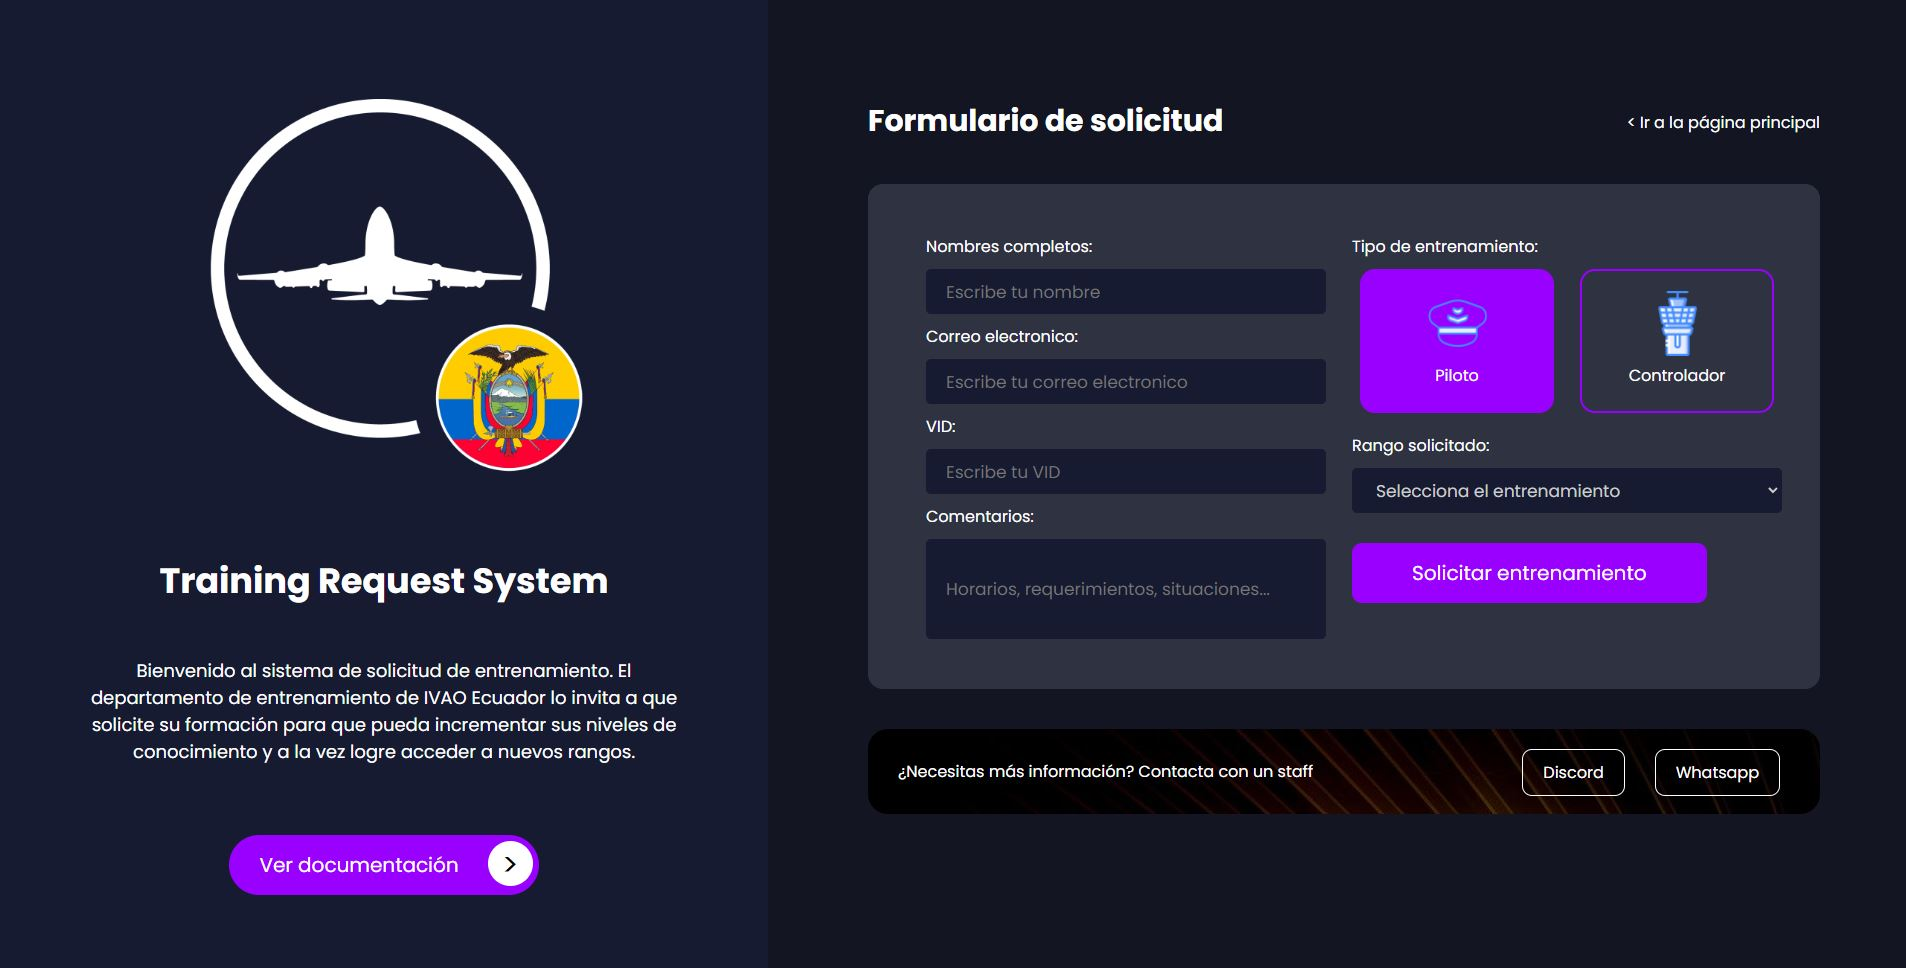
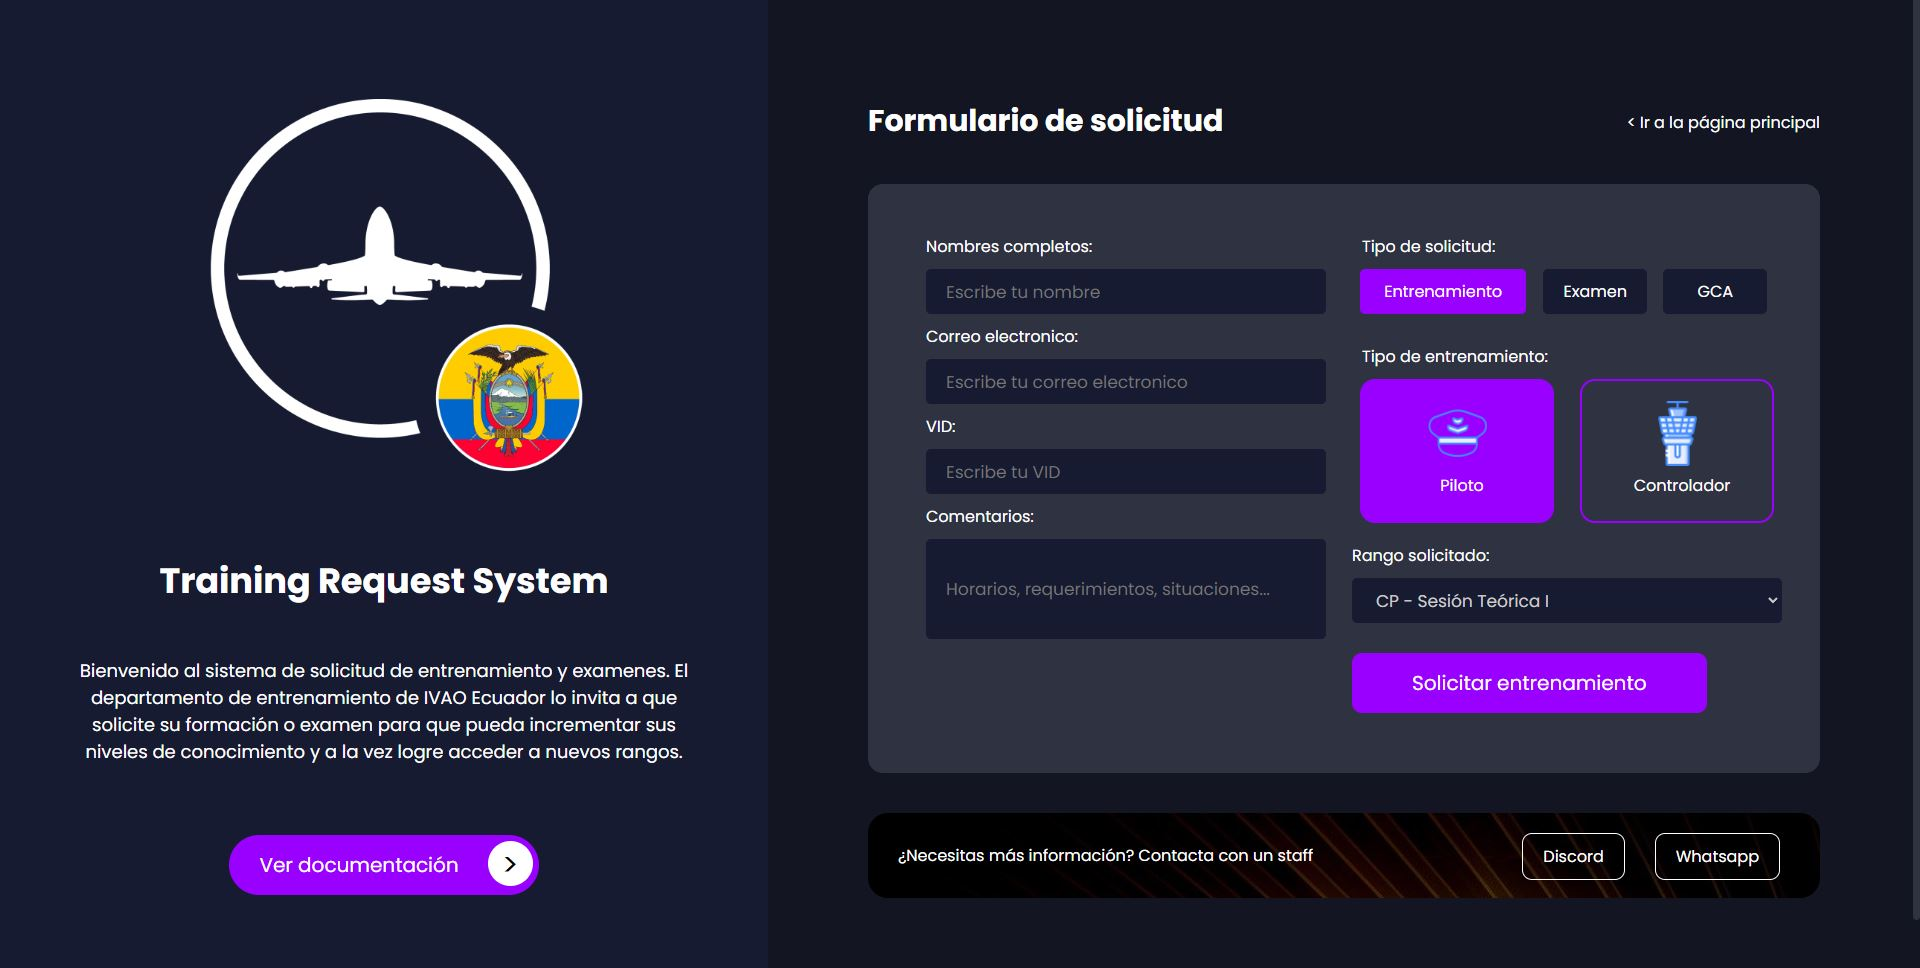
[Funcionalidades y estilo] Nuevo sistema para GCA

diff --git a/js/script.js b/js/script.js
@@ -29,6 +29,7 @@ let loadingPage = setInterval(() => {
 // Select type of request
 const trainingSelect = document.getElementById("training-type-label");
 const examSelect = document.getElementById("exam-type-label");
+const gcaSelect = document.getElementById("gca-type-label");
 const typeTitle = document.getElementById("type-title");
 
 // Main buttons
@@ -48,6 +49,7 @@ const submitBoton = document.getElementById("submit-boton");
 // Inputs
 const botonTraining = document.getElementById("training-type");
 const botonExam = document.getElementById("exam-type");
+const botonGca = document.getElementById("gca-type");
 
 // Input
 const botonSelectOne = document.getElementById("pilot_img");
@@ -59,6 +61,8 @@ const botonSelectTwo = document.getElementById("control_img");
 trainingSelect.addEventListener("click", () => {
     trainingSelect.classList.add("active");
     examSelect.classList.remove("active");
+    gcaSelect.classList.remove("active");
+    botonOne.classList.remove("disabled");
 
     typeTitle.innerHTML = "Tipo de entrenamiento:";
     submitBoton.innerHTML = "Solicitar entrenamiento";
@@ -82,6 +86,8 @@ trainingSelect.addEventListener("click", () => {
 examSelect.addEventListener("click", () => {
     examSelect.classList.add("active");
     trainingSelect.classList.remove("active");
+    gcaSelect.classList.remove("active");
+    botonOne.classList.remove("disabled");
 
     typeTitle.innerHTML = "Tipo de examen:";
     submitBoton.innerHTML = "Solicitar examen";
@@ -103,27 +109,54 @@ examSelect.addEventListener("click", () => {
 },false)
 
 
+gcaSelect.addEventListener("click", () => {
+    gcaSelect.classList.add("active");
+    trainingSelect.classList.remove("active");
+    examSelect.classList.remove("active");
+
+    typeTitle.innerHTML = "Tipo de GCA:";
+    submitBoton.innerHTML = "Solicitar GCA / Request GCA";
+
+    botonOne.classList.add("disabled");
+    botonOne.style.backgroundColor  = "transparent";
+    botonTwo.style.backgroundColor = "#9A00FF";
+    botonSelectTwo.checked = true;
+
+    submitSection.style.display = "block";
+
+    listControl.style.display = "none";
+    listPilot.style.display = "none";
+    listExamAtc.style.display = "block";
+    listExamPilot.style.display = "none";
+    
+
+},false)
+
+
 // Buttons
 
 botonOne.addEventListener("change", () => {
 
-    submitSection.style.display = "block";
+    if(botonGca.checked != true){
 
-    botonTwo.style.backgroundColor  = "transparent";
-    botonOne.style.backgroundColor = "#9A00FF";
+        submitSection.style.display = "block";
+        
+        botonTwo.style.backgroundColor  = "transparent";
+        botonOne.style.backgroundColor = "#9A00FF";
 
-    if(botonTraining.checked){
-        listControl.style.display = "none";
-        listPilot.style.display = "block";
-        listExamAtc.style.display = "none";
-        listExamPilot.style.display = "none";
-    }
-
-    if(botonExam.checked){
-        listControl.style.display = "none";
-        listPilot.style.display = "none";
-        listExamAtc.style.display = "none";
-        listExamPilot.style.display = "block";
+        if(botonTraining.checked){
+            listControl.style.display = "none";
+            listPilot.style.display = "block";
+            listExamAtc.style.display = "none";
+            listExamPilot.style.display = "none";
+        }
+    
+        if(botonExam.checked){
+            listControl.style.display = "none";
+            listPilot.style.display = "none";
+            listExamAtc.style.display = "none";
+            listExamPilot.style.display = "block";
+        }
     }
 
 },false)
@@ -145,12 +178,14 @@ botonTwo.addEventListener("change", () => {
         listExamPilot.style.display = "none";
     }
 
-    if(botonExam.checked){
+    if(botonExam.checked || botonGca.checked){
         listControl.style.display = "none";
         listPilot.style.display = "none";
         listExamAtc.style.display = "block";
         listExamPilot.style.display = "none";
     }
+
+    
 
 },false)
 
@@ -213,3 +248,16 @@ form.addEventListener('submit', function(e){
         });
 
 })
+
+// Responsive change
+
+const optionOne = document.getElementById("option-type1");
+const optionTwo = document.getElementById("option-type2");
+const optionThree = document.getElementById("option-type3");
+
+
+if(screen.width > 1024 && screen.width <= 1440){
+    optionOne.classList.remove("col-lg-5");
+    optionTwo.classList.remove("col-lg-3");
+    optionThree.classList.remove("col-lg-3");
+}

diff --git a/index.html b/index.html
@@ -62,11 +62,14 @@
                                     <div class="form-section-1-1">
                                         <p>Tipo de solicitud:</p>
                                         <div class="row">
-                                            <div class="col-lg-6 col-md-12 col-sm-12 col-xs-12">
+                                            <div class="col-lg-5 col-md-12 col-sm-12 col-xs-12" id="option-type1">
                                                 <label for="training-type" class="label-type active" id="training-type-label"><input type="radio" checked name="type_option" value="training" id="training-type">Entrenamiento</label>
                                             </div>
-                                            <div class="col-lg-6 col-md-12 col-sm-12 col-xs-12">
+                                            <div class="col-lg-3 col-md-12 col-sm-12 col-xs-12" id="option-type2">
                                                 <label for="exam-type" class="label-type" id="exam-type-label"><input type="radio" name="type_option" value="exam" id="exam-type">Examen</label>
+                                            </div>
+                                            <div class="col-lg-3 col-md-12 col-sm-12 col-xs-12" id="option-type3">
+                                                <label for="gca-type" class="label-type" id="gca-type-label"><input type="radio" name="type_option" value="gca" id="gca-type">GCA</label>
                                             </div>
                                         </div>
                                     </div>
@@ -75,12 +78,12 @@
                                         <div class="row">
                                             <div class="col-lg-6 col-md-6 col-sm-6 col-xs-12">
                                                 <label for="pilot_img" class="option1" id="botonOne">
-                                                    <input type="radio" name="radio_option" id="pilot_img" value="pilot"><img src="assets/sombrero-de-piloto2.png" alt=""><p>Piloto</p>
+                                                    <input type="radio" name="radio_option" id="pilot_img" value="pilot"><img src="assets/sombrero-de-piloto2.png" alt=""><p class="name-option">Piloto</p>
                                                 </label>
                                             </div>
                                             <div class="col-lg-6 col-md-6 col-sm-6 col-xs-12">
                                                 <label for="control_img" class="option2" id="botonTwo">
-                                                    <input type="radio" name="radio_option" id="control_img" value="control"><img src="assets/torre-de-control.png" alt=""><p>Controlador</p>
+                                                    <input type="radio" name="radio_option" id="control_img" value="control"><img src="assets/torre-de-control.png" alt=""><p class="name-option">Controlador</p>
                                                 </label>
                                             </div>
                                         </div>

diff --git a/css/styles.css b/css/styles.css
@@ -303,8 +303,9 @@ body{
     background-color: #171b31;
     border-radius: 5px;
     margin-right: 30px;
-    padding: 10px 0px 10px 20px;
+    padding: 10px 12px 10px 12px;
     cursor: pointer;
+    text-align: center;
 }
 
 .label-type input{
@@ -313,6 +314,20 @@ body{
 
 .active{
     background-color: #9a00ff !important;
+}
+
+#gca-type-label{
+    margin-left: 10px;
+}
+
+.disabled{
+    border: 2px solid #ccc !important;
+    filter: brightness(0.5) !important;
+    cursor: not-allowed !important;
+}
+
+.disabled:hover{
+    background-color: transparent !important;
 }
 
 
@@ -433,10 +448,14 @@ body{
     display: none;
 }
 
+#confirm_request{
+        margin-bottom: 30px;
+}
+
 
 @media only screen and (max-width: 1440px) {
     .option1, .option2 {
-        padding: 10px;
+        padding: 30px 0px;
     }
     .form-section-3 select{
         padding-left: 10px !important;
@@ -461,7 +480,20 @@ body{
     }
     .label-type{
         font-size: 15px;
-        padding: 10px 10px 10px 10px
+        padding: 10px 10px 10px 10px;
+        margin-bottom: 10px;
+    }
+
+    #gca-type-label{
+        margin-left: 0;
+    }
+
+    .name-option{
+        margin: 10px 0px !important;
+    }
+
+    .form-section-2{
+        margin: 20px 20px 20px 0px;
     }
   }
 
@@ -600,6 +632,10 @@ body{
 
     .loading-img{
         width: 180px;
+    }
+
+    .label-type{
+        width: 85% !important;
     }
     
   }

diff --git a/php/sendEmail.php b/php/sendEmail.php
@@ -10,25 +10,27 @@ $date = date('d-m-Y H:i:s');
 
 if($type_option === 'training'){
 
+  $option_selected = "un entrenamiento ";
+
   if($radio_option === 'pilot'){
     $t_selected = $_POST['rank_pilot'];
   }else{
     $t_selected = $_POST['rank_control'];
   }
 
-}else{
+}else if($type_option === 'exam'){
+
+  $option_selected = "un examen ";
 
   if($radio_option === 'pilot'){
     $t_selected = $_POST['exam_pilot'];
   }else{
     $t_selected = $_POST['exam_atc'];
   }
-}
 
-if($type_option === "training"){
-  $option_selected = "un entrenamiento ";
-}else{
-  $option_selected = "un examen ";
+} else {
+  $option_selected = "un examen GCA ";
+  $t_selected = $_POST['exam_atc'];
 }
 
 if($name === '' || $email === '' || $vid === '' || $t_selected === 'no_data'){
@@ -182,9 +184,7 @@ if($name === '' || $email === '' || $vid === '' || $t_selected === 'no_data'){
               <div class="bg-container">
                   <h1 class="titulo-email">'.$name.' ('.$vid.') '.$option_selected.' '.$t_selected.'</h1>
                   <p><strong>'.$name.' </strong> solicitó '.$option_selected.' '.$t_selected.'. A continuación se describen los datos del solicitante:</p>
-          
-                
-  
+
                 <ul class="details">
                     <li class="odd-text">Solicitante: '.$name.' </li>
                     <li>Correo electronico: '.$email.'. </li>
@@ -193,10 +193,6 @@ if($name === '' || $email === '' || $vid === '' || $t_selected === 'no_data'){
                     <li class="odd-text">Comentarios: '.$comments.'</li>
                     <li>Fecha de solicitud: '.$date.'</li>
                 </ul>
-  
-                
-  
-                
           
                 <div class="footer">Training request system <a href="https://training.ec.ivao.aero/">https://training.ec.ivao.aero/</a>
                 </div>
@@ -208,7 +204,7 @@ if($name === '' || $email === '' || $vid === '' || $t_selected === 'no_data'){
     
     ';
 
-    $to = "ec-training@ivao.aero";
+    $to = "santiago.baron.zuleta@ivao.aero";
     $subject = $name." solicitó ".$option_selected." ".$t_selected;
     $headers = 'From: Training Request System - IVAO Ecuador <ec-training@ivao.aero>' . "\r\n" .
     'Reply-To: ec-training@ivao.aero' . "\r\n" .

diff --git a/README.md b/README.md
@@ -1,6 +1,6 @@
 # 📡 Training Request System
 
-The Training Request System is a website derived from Ivao Ecuador that provides a tool to schedule new training for pilots or air traffic controllers.
+The Training Request System is a website derived from Ivao Ecuador that provides a tool to schedule new training, exam or GCA for pilots or air traffic controllers.
 
 ## Table of Contents 📋
 - General Info
@@ -15,10 +15,7 @@ The Training Request System is a website derived from Ivao Ecuador that provides
 
 ## General Information 🙋♂
 
-The project was completed in 1 week approximately. I used the IDE "Visual Studio Code" to write. The project has 5 folders (assets, css, dist, js and php) and also the index file.
-
-## Preview project 📸
-![](https://raw.githubusercontent.com/Santiago-Baron-Zuleta/training-request-system/master/assets/preview.JPG)
+The project was completed in 2 week approximately. I used the IDE "Visual Studio Code" to write. The project has 5 folders (assets, css, dist, js and php) and also the index file.
 
 ## Technologies ⚙
 
